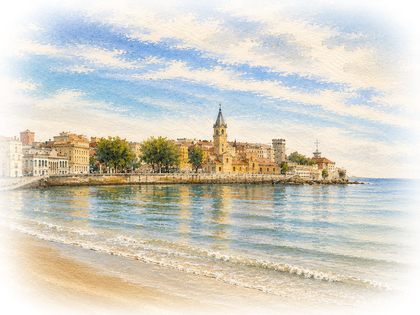
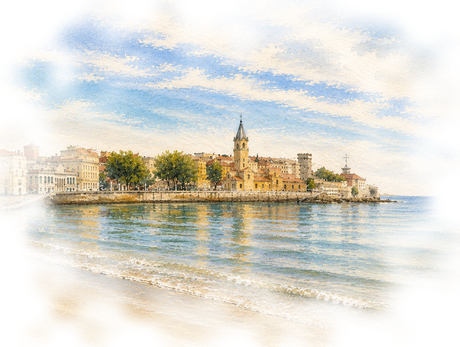
Recolorea y recorta el monograma, y añade un óvalo limpio alrededor
- El monograma CP usa ahora el verde de la web (antes era un verde
  bosque distinto, heredado del archivo original).
- Se reduce el sobremuestreo de la imagen para que no se vea
  pixelado, y se muestra más pequeño.
- Se añade un óvalo fino dibujado por CSS alrededor (limpio, no el
  óvalo irregular del archivo original).
- La foto de portada usa un desvanecido más orgánico e irregular en
  los bordes, en línea con el resto de acuarelas del sitio.

diff --git a/styles.css b/styles.css
@@ -158,7 +158,7 @@ html{scroll-padding-top:76px}
 .rsvp-photo{width:100%;height:min(70vh,680px);margin:0;position:relative;overflow:hidden;filter:saturate(.58) sepia(.08);mask-image:linear-gradient(to right,transparent 0,#000 12%,#000 78%,transparent 100%),linear-gradient(to bottom,transparent 0,#000 10%,#000 88%,transparent 100%);mask-composite:intersect;-webkit-mask-image:linear-gradient(to right,transparent 0,#000 12%,#000 78%,transparent 100%),linear-gradient(to bottom,transparent 0,#000 10%,#000 88%,transparent 100%);-webkit-mask-composite:source-in}
 .rsvp-photo:after{content:"";position:absolute;inset:-10px;background:rgba(246,239,223,.06);pointer-events:none}
 .rsvp-photo img{width:100%;height:100%;object-fit:cover;object-position:center 34%;filter:none}
-.rsvp-logo{width:min(100%,430px);height:min(66vh,600px);margin-inline:auto;overflow:hidden;filter:none;mask-image:none;-webkit-mask-image:none}
+.rsvp-logo{width:min(78%,330px);height:min(50vh,460px);margin-inline:auto;padding:34px 26px;box-sizing:border-box;border:1px solid var(--olive);border-radius:50%;overflow:hidden;filter:none;mask-image:none;-webkit-mask-image:none}
 .rsvp-logo:after{display:none}
 .rsvp-logo img{display:block;width:100%;height:100%;object-fit:contain}
 .rsvp-copy{max-width:620px!important;margin:0!important;text-align:left}
@@ -283,7 +283,7 @@ html,body{max-width:100%;overflow-x:hidden}
 
   .rsvp{min-height:calc(100svh - 74px);align-content:center;padding:38px 22px;gap:8px}
   .rsvp-photo{width:min(78vw,330px);height:min(38svh,330px)}
-  .rsvp-logo{width:min(48vw,205px);height:min(29svh,235px)}
+  .rsvp-logo{width:min(40vw,175px);height:min(23svh,195px);padding:20px 15px}
   .rsvp h2{margin-bottom:14px;font-size:43px;line-height:.92}
   .rsvp-copy p{margin-bottom:14px;font-size:12px}
   .rsvp .open-form{margin-top:8px}
@@ -303,7 +303,7 @@ html,body{max-width:100%;overflow-x:hidden}
   .event{gap:34px;padding-top:54px;padding-bottom:54px}
   .event-image{height:175px}
   .rsvp-photo{width:min(82vw,300px);height:285px}
-  .rsvp-logo{width:min(48vw,190px);height:min(27svh,215px)}
+  .rsvp-logo{width:min(40vw,160px);height:min(21svh,180px);padding:18px 14px}
   .guide-menu{padding-inline:14px}
   .guide-menu h2{font-size:32px}
   .guide-menu nav{gap:5px}
